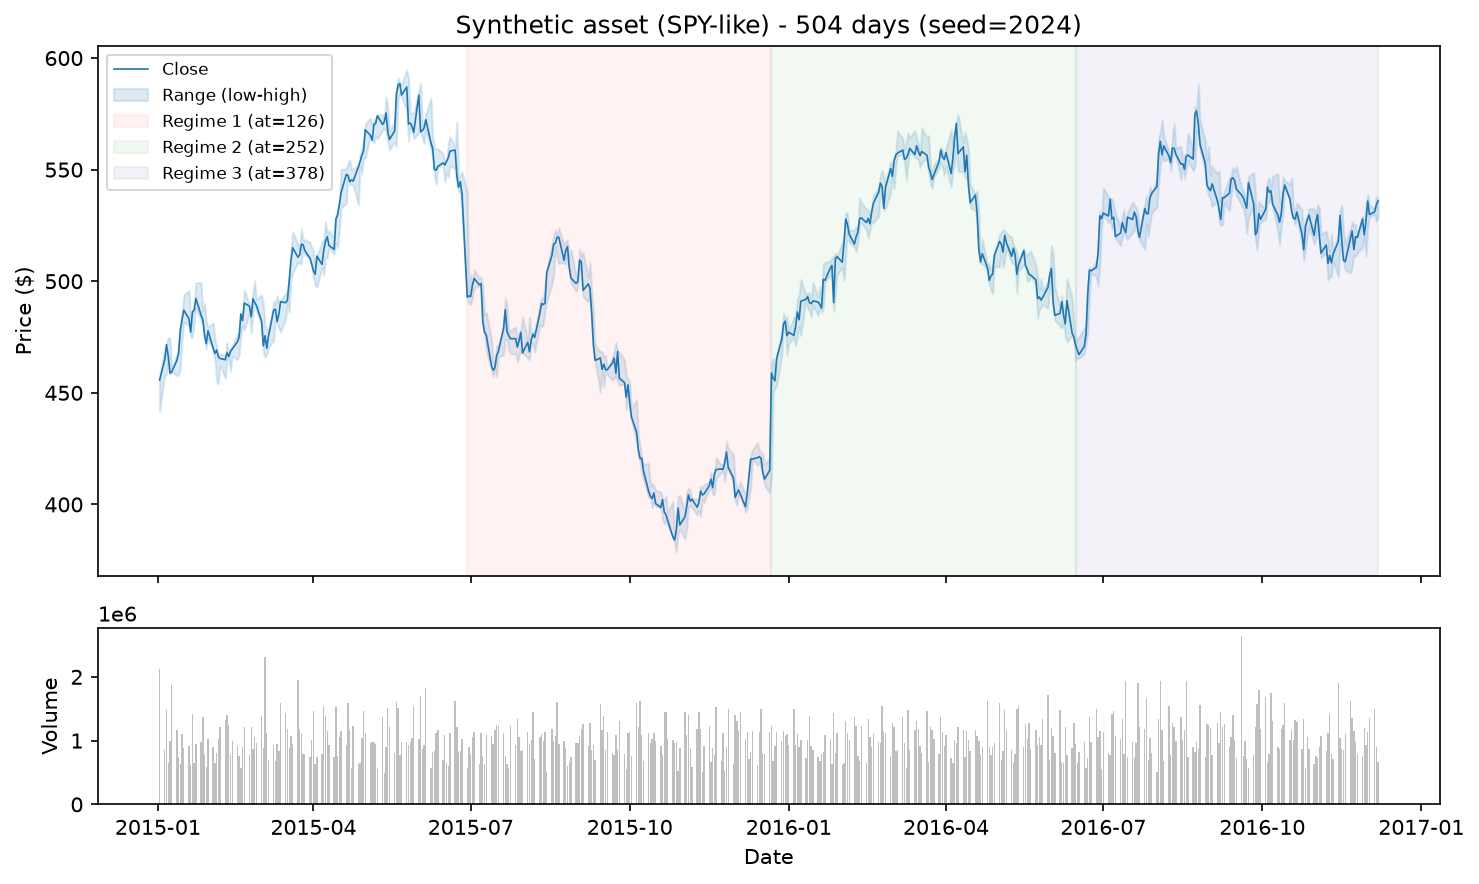
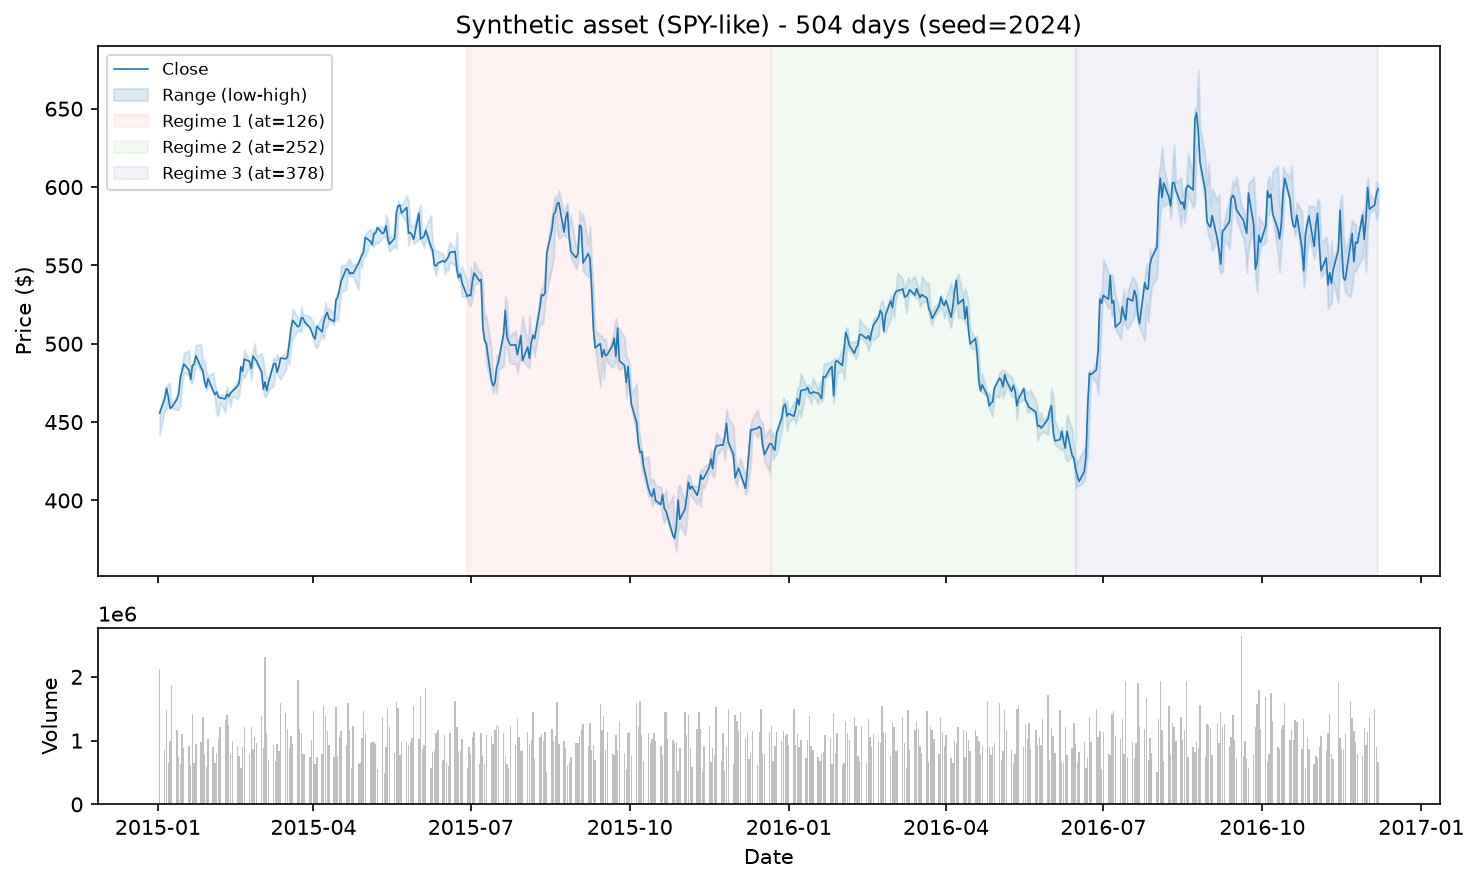
docs(examples): use process-changing regimes and document the behaviour
Both demos now build regimes from drift and volatility shifts, so the
figures show a continuous price path and a volatility series without
artefacts. docs/data-pipeline.md explains why level jumps are opt-in and
what they do to rolling windows; the CHANGELOG records the behaviour
change.

diff --git a/examples/01_synthetic_data.py b/examples/01_synthetic_data.py
@@ -31,12 +31,15 @@ if TYPE_CHECKING:
 # ``matplotlib`` package does not expose ``pyplot``.
 _PYPLOT = optional_import("matplotlib.pyplot")
 
-# Regimes that produce visible structural breaks in the synthetic series.
-# They are chosen so the shaded spans are wide enough to read on the plot.
+# Regimes that change the process — drift and volatility — without a price
+# jump, so the path stays continuous and derived volatility has no artefacts.
 _DEMO_REGIMES: tuple[Regime, ...] = (
-    Regime(at=126, level_shift=-0.08, drift_shift=-0.0004),  # ~6 months in: correction
-    Regime(at=252, level_shift=0.10, drift_shift=0.0006),  # ~12 months in: recovery + uptrend
-    Regime(at=378, drift_shift=-0.0002),  # ~18 months in: cooling
+    # ~6 months in: a correction — negative drift, higher volatility.
+    Regime(at=126, drift_shift=-0.0006, volatility_shift=0.008),
+    # ~12 months in: recovery — positive drift, calmer.
+    Regime(at=252, drift_shift=0.0006, volatility_shift=-0.006),
+    # ~18 months in: a turbulent plateau — no trend change, more volatility.
+    Regime(at=378, drift_shift=-0.0002, volatility_shift=0.010),
 )
 
 

diff --git a/examples/02_features.py b/examples/02_features.py
@@ -44,9 +44,9 @@ _PYPLOT = optional_import("matplotlib.pyplot")
 _SEED = 2024
 _LENGTH = 504
 _REGIMES: tuple[Regime, ...] = (
-    Regime(at=126, level_shift=-0.08, drift_shift=-0.0004),
-    Regime(at=252, level_shift=0.10, drift_shift=0.0006),
-    Regime(at=378, drift_shift=-0.0002),
+    Regime(at=126, drift_shift=-0.0006, volatility_shift=0.008),
+    Regime(at=252, drift_shift=0.0006, volatility_shift=-0.006),
+    Regime(at=378, drift_shift=-0.0002, volatility_shift=0.010),
 )
 
 # Order matters: the volatility step reads the return column created above it.

diff --git a/docs/data-pipeline.md b/docs/data-pipeline.md
@@ -62,11 +62,33 @@ contributor's laptop.
 
 ### Regimes
 
-A `Regime` marks a structural break at a given row. By default it changes
-**drift and volatility only**; it does not create a one-day price jump, which
-would look like a data error and would poison any volatility window that
-straddles it. `level_shift` is available for callers who deliberately want a
-discontinuous jump.
+A `Regime` marks a structural break at a given row, inclusive:
+
+| Field | Effect from `at` onward |
+|---|---|
+| `drift_shift` | Additive change to the per-period log-return |
+| `volatility_shift` | Additive change to the per-period log-return standard deviation |
+| `level_shift` | Opt-in one-period jump of `exp(level_shift) - 1` in the close price |
+
+By default a regime changes the **process, not the price level**. That choice
+is deliberate:
+
+- A sudden 8% overnight move is indistinguishable from a data error, and a
+  reader of the demo plot reasonably concludes the generator is broken.
+- A single outlier return stays inside every rolling volatility window that
+  contains it for the entire window length, so a 20-day volatility series
+  shows a flat 20-row plateau. That plateau is an artefact of the injected
+  jump, not a property of the process, and it silently contaminates any
+  volatility feature computed from the series.
+
+The volatility of each period is therefore a vector rather than a scalar: a
+regime scales the noise, and the price path stays continuous. `level_shift`
+remains available for callers who explicitly want a discontinuity — for
+example to test how a model copes with a gap.
+
+The resulting per-period standard deviation must stay non-negative; a
+`volatility_shift` that would drive it below zero raises `DataError` rather
+than silently producing NaN prices.
 
 ## Staging conventions
 

diff --git a/CHANGELOG.md b/CHANGELOG.md
@@ -41,6 +41,13 @@ and this project adheres to [Semantic Versioning](https://semver.org/spec/v2.0.0
 
 ### Changed
 
+- `Regime` now changes the process rather than the price level. It gains a
+  `volatility_shift` field, and `level_shift` is off by default and opt-in.
+  Previously `level_shift` injected an additive shock into a single log
+  return, producing a one-day jump of `exp(level_shift) - 1` (7–11% in the
+  demo series) and a flat 20-row plateau in any rolling volatility series
+  containing that row. Series generated without regimes are bit-for-bit
+  unchanged.
 - Restructured `configs/settings.toml` and its `development.toml` /
   `testing.toml` / `production.toml` overlays to match the fields the
   new `Settings` model loads (`[project]`, `[logging]`, `[paths]`,
